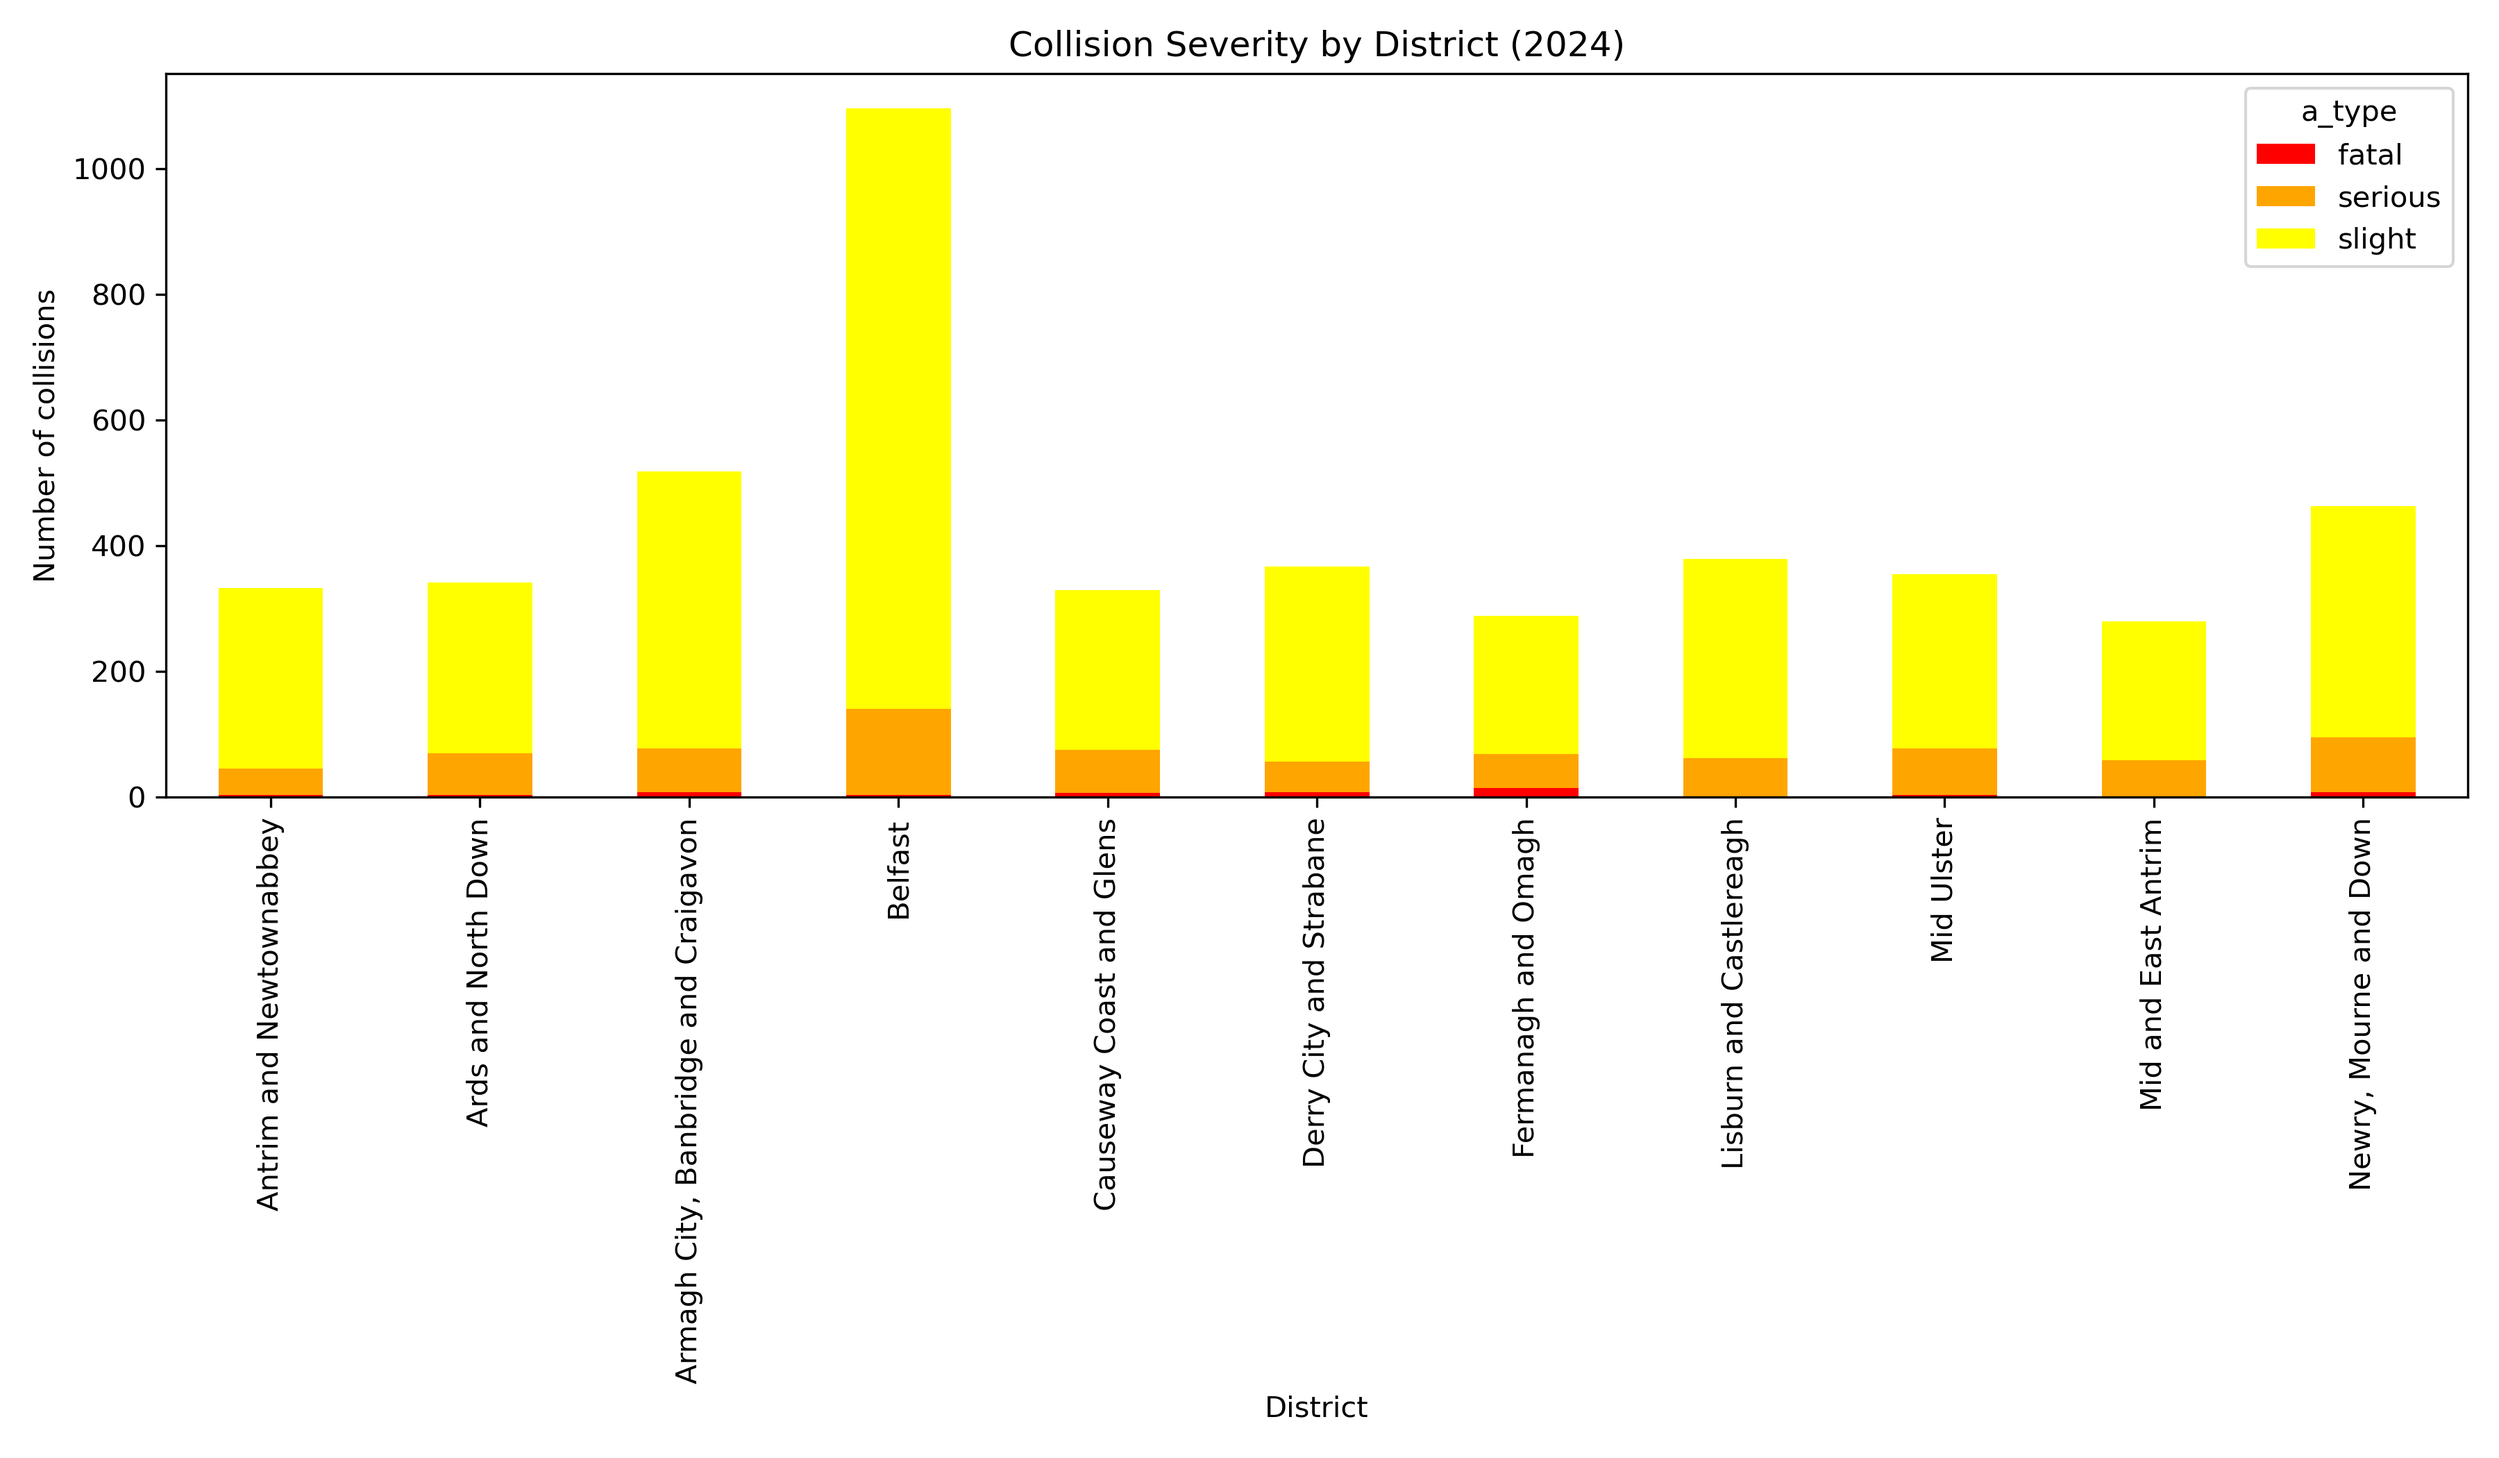
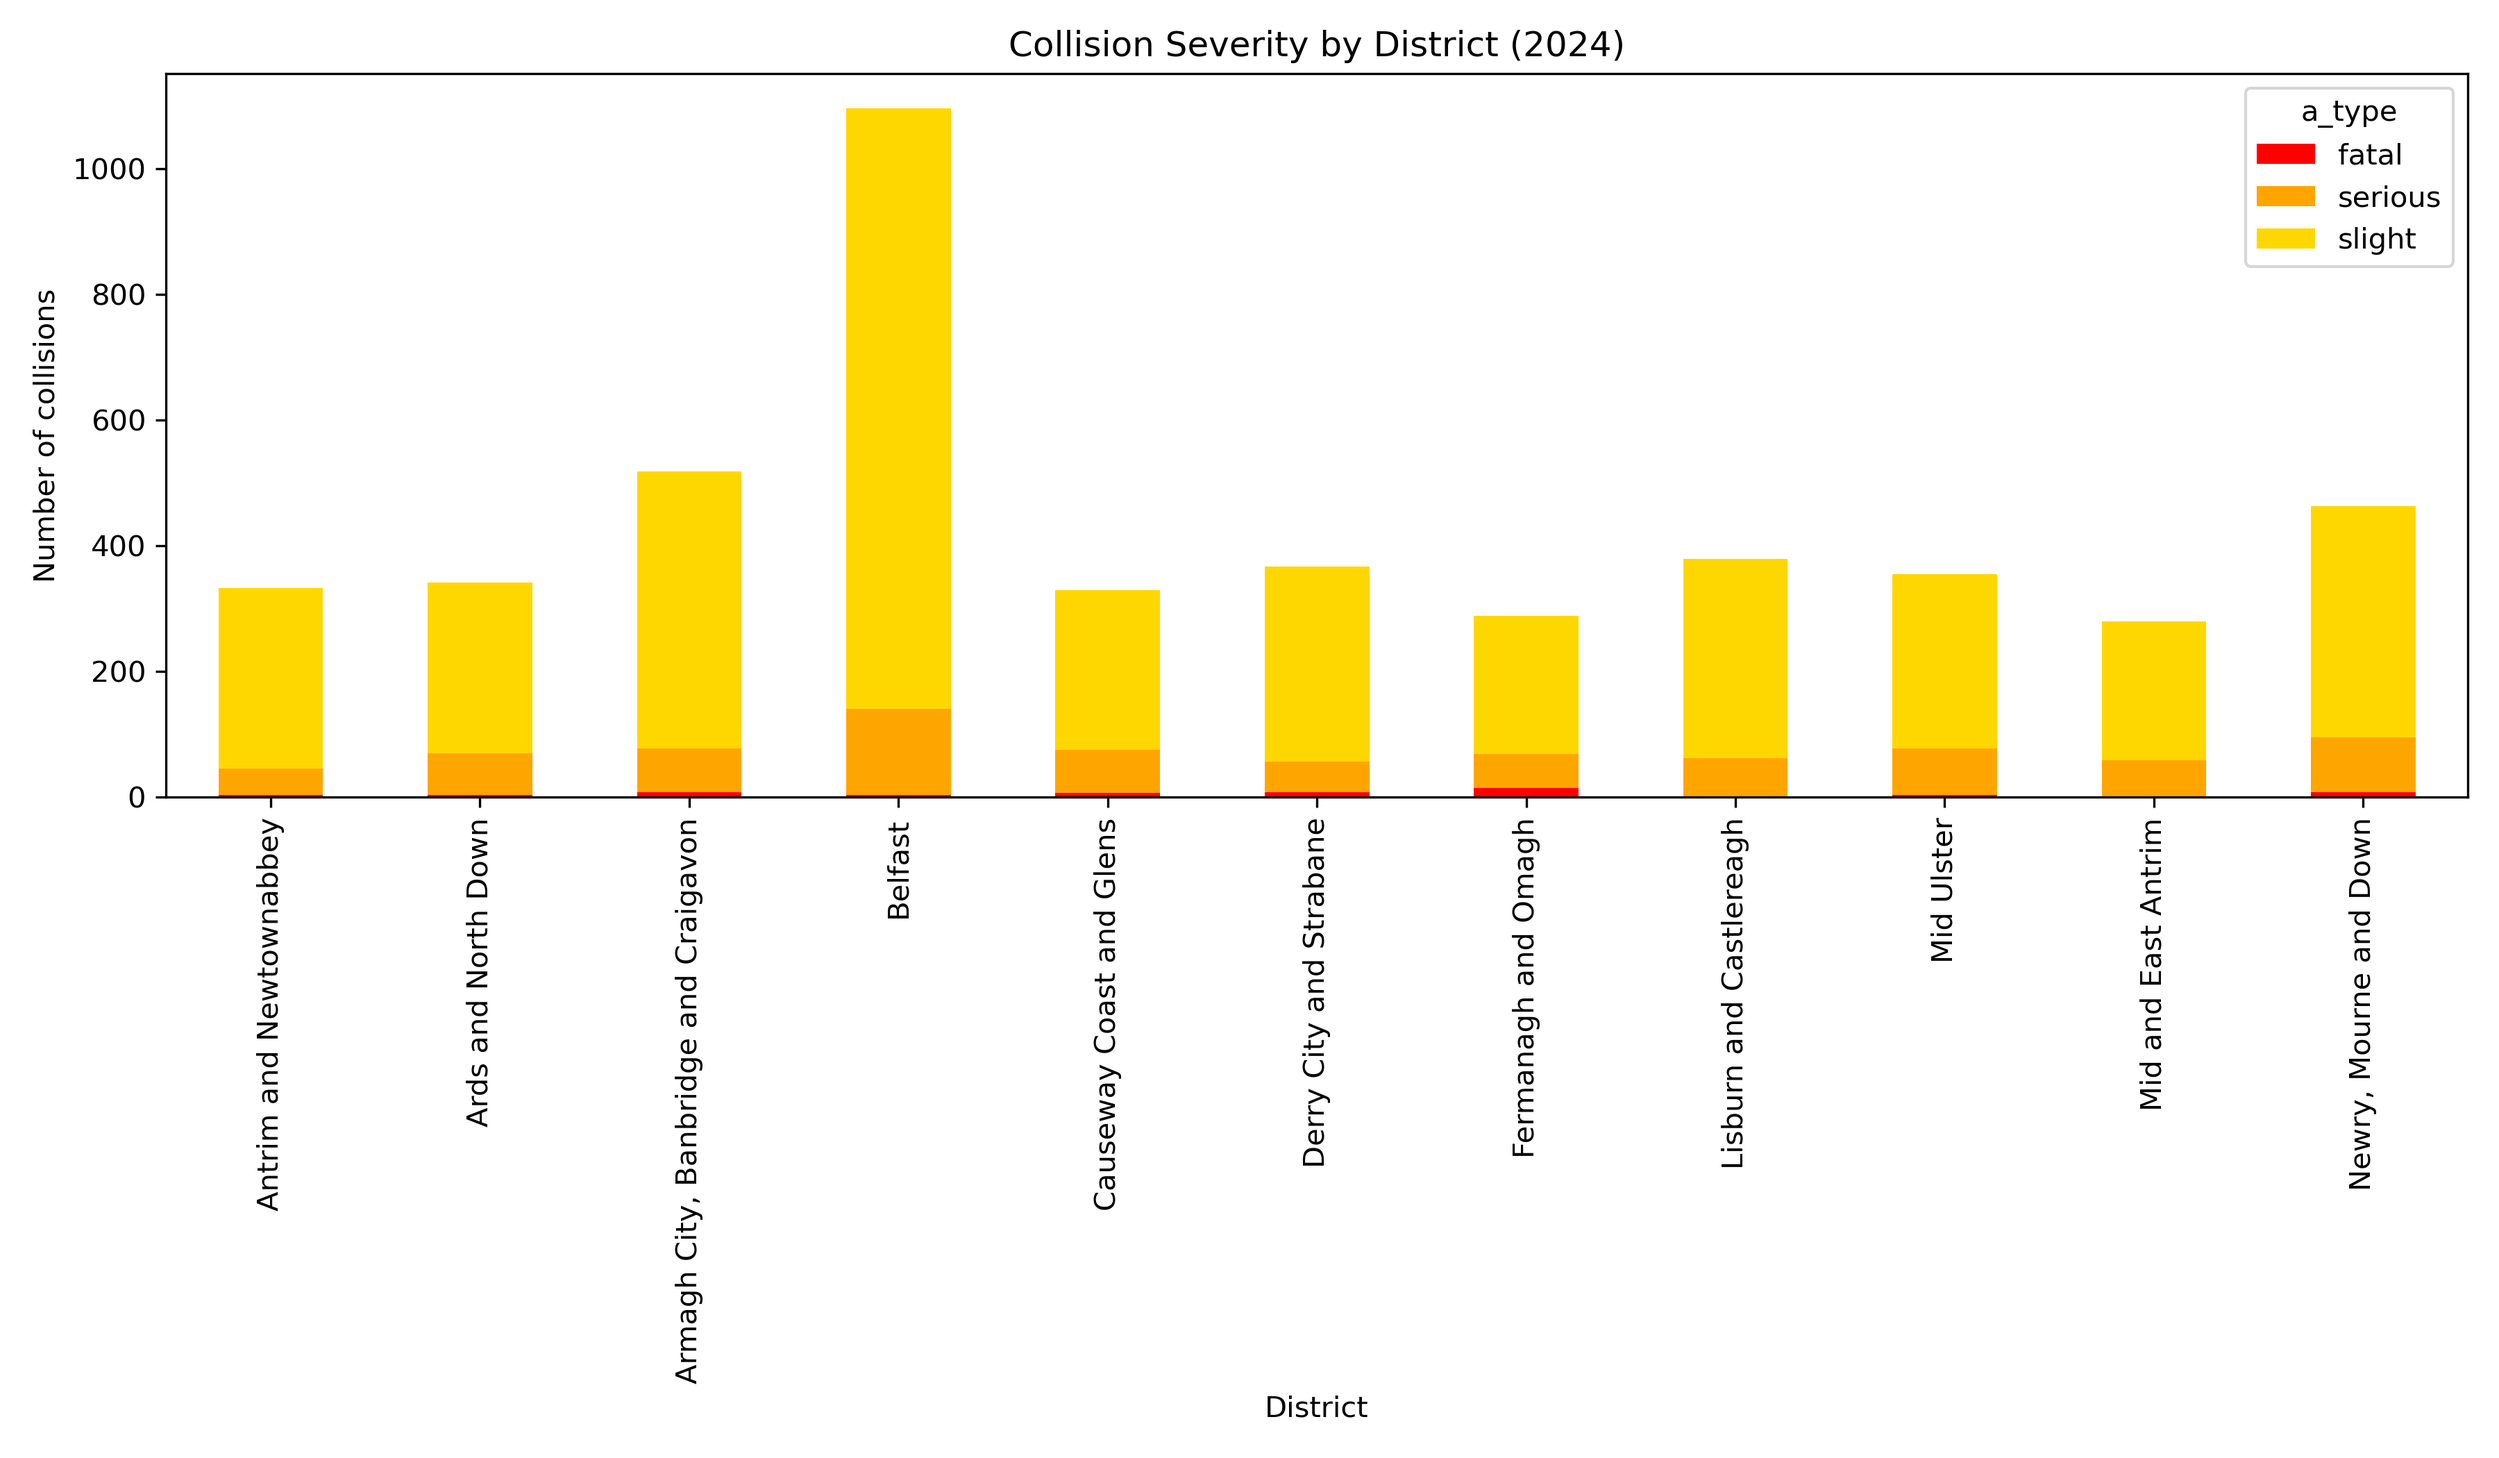
changing slight colour
changing yellow to gold - yellow is not visible

diff --git a/ni_collision_analysis.py b/ni_collision_analysis.py
@@ -283,7 +283,7 @@ severity_table[["fatal", "serious", "slight"]].plot(
     kind="bar",
     stacked=True,
     figsize=(12, 7),
-    color=["red", "orange", "yellow"]
+    color=["red", "orange", "gold"]
 )
 
 plt.title(f"Collision Severity by District ({YEAR})")
